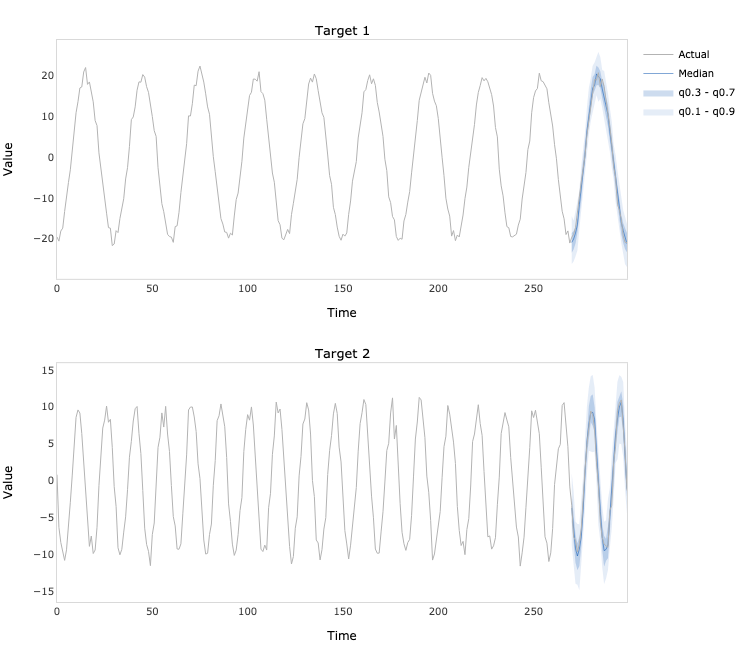
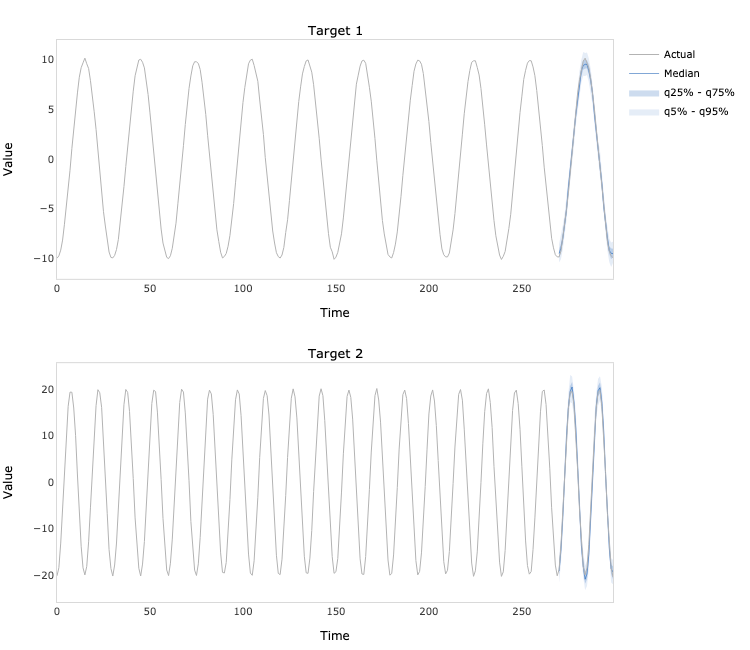
update example

diff --git a/probcast_tensorflow/plots.py b/probcast_tensorflow/plots.py
@@ -60,8 +60,8 @@ def plot(df, quantiles, targets):
                 go.Scatter(
                     x=df['time_idx'],
                     y=df['target_' + str(i + 1) + '_' + str(quantiles[- (j + 1)])],
-                    name='q' + str(quantiles[j]) + ' - q' + str(quantiles[- (j + 1)]),
-                    legendgroup='q' + str(quantiles[j]) + ' - q' + str(quantiles[- (j + 1)]),
+                    name='q' + format(quantiles[j], '.0%') + ' - q' + format(quantiles[- (j + 1)], '.0%'),
+                    legendgroup='q' + format(quantiles[j], '.0%') + ' - q' + format(quantiles[- (j + 1)], '.0%'),
                     showlegend=False,
                     mode='lines',
                     line=dict(
@@ -77,8 +77,8 @@ def plot(df, quantiles, targets):
                 go.Scatter(
                     x=df['time_idx'],
                     y=df['target_' + str(i + 1) + '_' + str(quantiles[j])],
-                    name='q' + str(quantiles[j]) + ' - q' + str(quantiles[- (j + 1)]),
-                    legendgroup='q' + str(quantiles[j]) + ' - q' + str(quantiles[- (j + 1)]),
+                    name='q' + format(quantiles[j], '.0%') + ' - q' + format(quantiles[- (j + 1)], '.0%'),
+                    legendgroup='q' + format(quantiles[j], '.0%') + ' - q' + format(quantiles[- (j + 1)], '.0%'),
                     showlegend=True if i == 0 else False,
                     mode='lines',
                     fill='tonexty',

diff --git a/example/example.py b/example/example.py
@@ -4,9 +4,9 @@ from probcast_tensorflow.model import ProbCast
 # Generate two time series
 N = 300
 t = np.linspace(0, 1, N)
-e = np.random.multivariate_normal(mean=[0, 0], cov=[[1, 0.25], [0.25, 1]], size=N)
-a = 20 * np.cos(2 * np.pi * (10 * t - 0.5)) + e[:, 0]
-b = 10 * np.sin(2 * np.pi * (20 * t - 0.5)) + e[:, 1]
+e = np.random.multivariate_normal(mean=np.zeros(2), cov=np.eye(2), size=N)
+a = 10 * np.cos(2 * np.pi * (10 * t - 0.5)) + 0.1 * e[:, 0]
+b = 20 * np.cos(2 * np.pi * (20 * t - 0.5)) + 0.2 * e[:, 1]
 y = np.hstack([a.reshape(- 1, 1), b.reshape(- 1, 1)])
 
 # Fit the model
@@ -14,7 +14,7 @@ model = ProbCast(
     y=y,
     forecast_length=30,
     sequence_length=60,
-    quantiles=[0.1, 0.3, 0.5, 0.7, 0.9],
+    quantiles=[0.05, 0.25, 0.5, 0.75, 0.95],
     generator_gru_units=[64, 32],
     discriminator_gru_units=[64, 32],
     generator_dense_units=16,
@@ -24,8 +24,8 @@ model = ProbCast(
 )
 
 model.fit(
-    learning_rate=0.001,
-    batch_size=32,
+    learning_rate=0.01,
+    batch_size=64,
     epochs=100,
     verbose=True
 )

diff --git a/README.MD b/README.MD
@@ -24,9 +24,9 @@ from probcast_tensorflow.model import ProbCast
 # Generate two time series
 N = 300
 t = np.linspace(0, 1, N)
-e = np.random.multivariate_normal(mean=[0, 0], cov=[[1, 0.25], [0.25, 1]], size=N)
-a = 20 * np.cos(2 * np.pi * (10 * t - 0.5)) + e[:, 0]
-b = 10 * np.sin(2 * np.pi * (20 * t - 0.5)) + e[:, 1]
+e = np.random.multivariate_normal(mean=np.zeros(2), cov=np.eye(2), size=N)
+a = 10 * np.cos(2 * np.pi * (10 * t - 0.5)) + 0.1 * e[:, 0]
+b = 20 * np.cos(2 * np.pi * (20 * t - 0.5)) + 0.2 * e[:, 1]
 y = np.hstack([a.reshape(- 1, 1), b.reshape(- 1, 1)])
 
 # Fit the model
@@ -34,7 +34,7 @@ model = ProbCast(
     y=y,
     forecast_length=30,
     sequence_length=60,
-    quantiles=[0.1, 0.3, 0.5, 0.7, 0.9],
+    quantiles=[0.05, 0.25, 0.5, 0.75, 0.95],
     generator_gru_units=[64, 32],
     discriminator_gru_units=[64, 32],
     generator_dense_units=16,
@@ -44,8 +44,8 @@ model = ProbCast(
 )
 
 model.fit(
-    learning_rate=0.001,
-    batch_size=32,
+    learning_rate=0.01,
+    batch_size=64,
     epochs=100,
     verbose=True
 )
